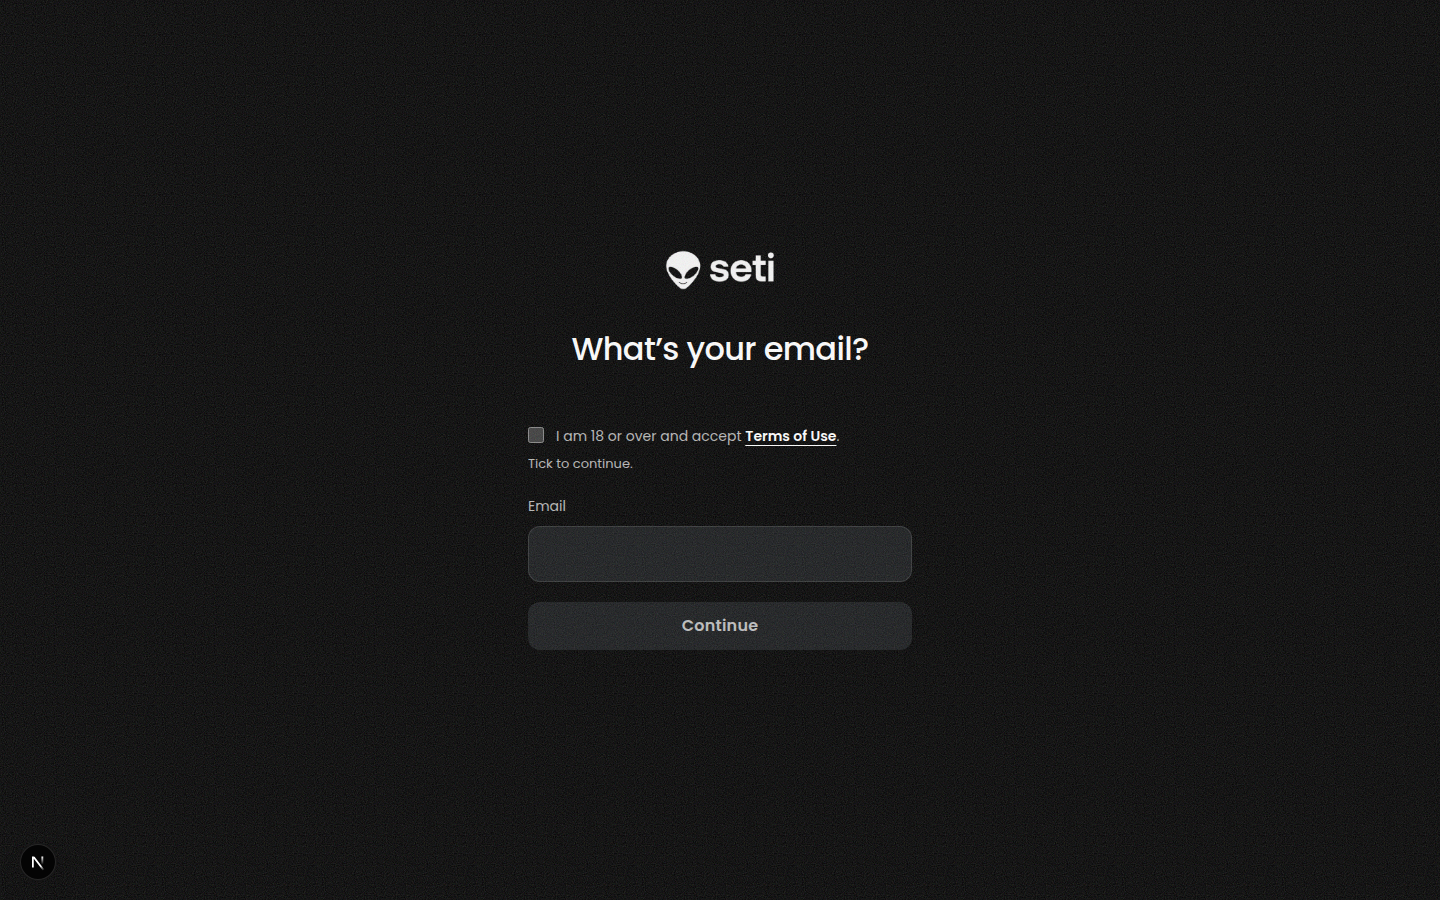
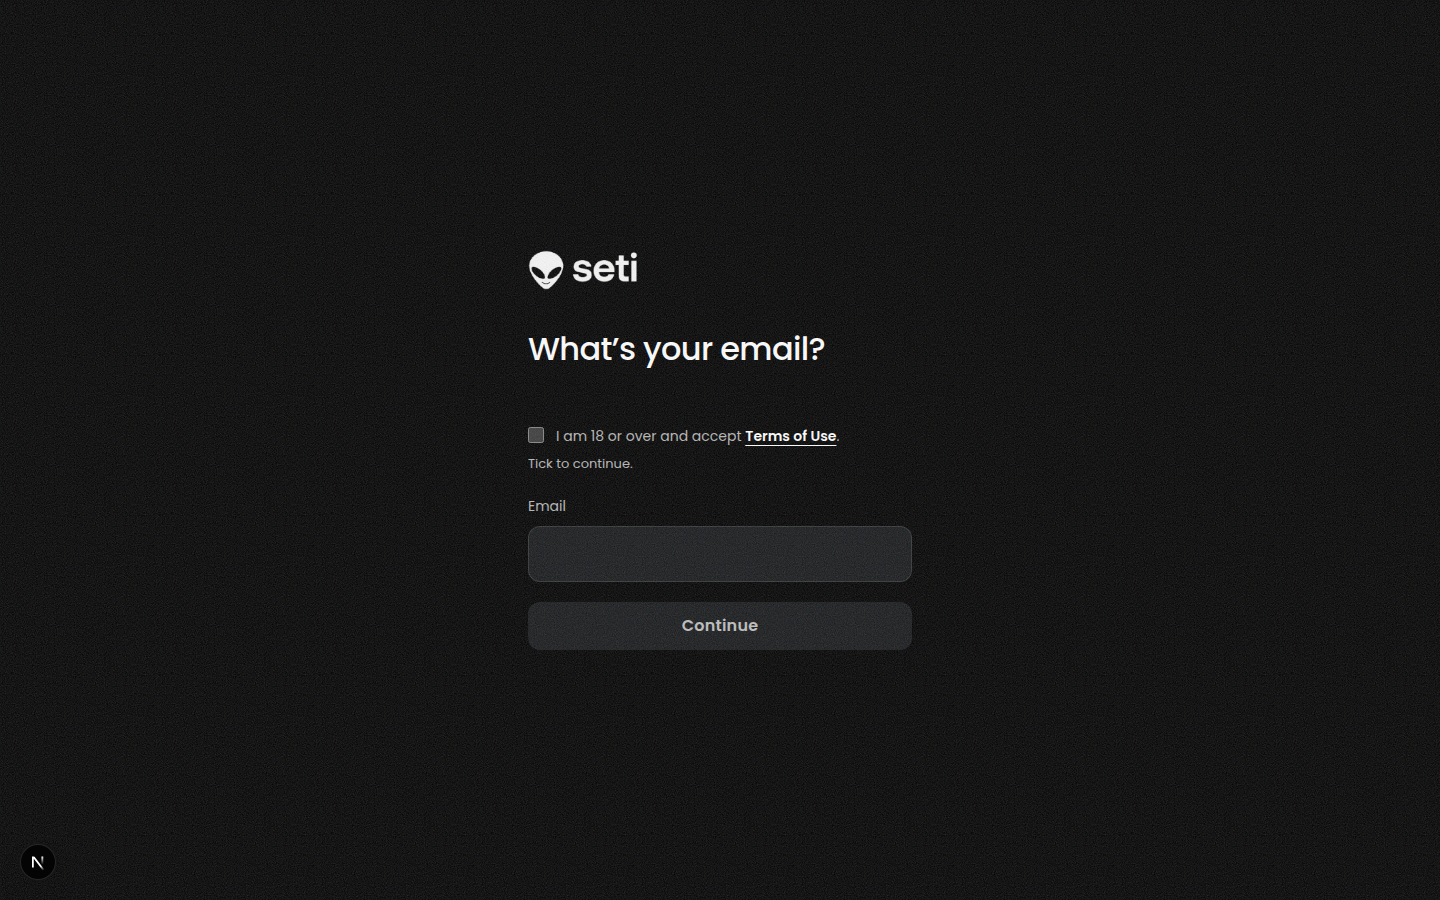
fix(signin): one left edge for the lockup, the title and the controls
Centring the title (6234c84) fixed one axis and broke congruence with the
form: the centred pair then shared no edge with anything below, so the title
floated between the column's left edge and the field's right one. Two
compositions stacked, whichever half you centre (#567).

Everything starts on the column's left edge now. Measured at 390: lockup,
title, checkbox, Email label, field and button all begin at x=24 (528 at
1440), with the consent text indented only by the checkbox it follows. This
is Coinbase's sign-up arrangement: mark top-left, title left, controls left.
Centring the whole stack is the other coherent choice and it is worse — a
centred 'Email' label over a full-width field is a label that belongs to
nothing.

Changed region(s): [[0.3438, 0.3733, 0.625, 0.4044], [0.3438, 0.28, 0.5625, 0.3422]]

diff --git a/web/components/signin/SignInPanel.tsx b/web/components/signin/SignInPanel.tsx
@@ -48,7 +48,7 @@ export function SignInPanel({ children, title, showMark = true }: SignInPanelPro
              an otherwise empty field identifies nothing: it reads as an avatar. `h-10` is 40px
              tall, which is 110px of lockup — the same width as the references — and it is one
              image, so the face and the name cannot drift apart. */
-          <BrandLockup className="entrance mx-auto block h-10 w-auto" preload />
+          <BrandLockup className="entrance block h-10 w-auto" preload />
         ) : null}
 
         {/* The page's ONE heading, and it is visible (#567).
@@ -66,14 +66,15 @@ export function SignInPanel({ children, title, showMark = true }: SignInPanelPro
             what was deleted. The loading stage passes none: it has nothing to announce but the wait.
             `text-balance` keeps a two-line title from ending on one short word. */}
         {title ? (
-          /* CENTRED, like the lockup above it (#567). The heading was flush left under a centred
-             mark, which is two compositions stacked: measured in the render, the lockup's ink sat at
-             the column's exact centre while the title's ink started at its left edge, so nothing
-             shared an axis and the mark read as off-centre even though it was not. A centred title
-             over a centred wordmark is Linear's arrangement; the consent, the field and the button
-             stay left-aligned, because a form whose labels centre is a form you cannot scan. */
+          /* ONE LEFT EDGE, for the lockup, the title and every control under them (#567).
+             Centring the title alone was measured and rejected: the centred pair then shared no edge
+             with the form, so the title floated between the column's left edge and the field's right
+             one and the block read as two compositions. Centring the whole stack is worse — a centred
+             `Email` label over a full-width field is a label that belongs to nothing. Coinbase's
+             sign-up screen is this arrangement: mark top-left, title left, controls left, one axis.
+             `text-balance` keeps a two-line title from ending on one short word. */
           <h1
-            className={`text-balance text-center font-brand text-heading-lg font-medium text-on-dark ${showMark ? 'mt-10' : ''}`}
+            className={`text-balance font-brand text-heading-lg font-medium text-on-dark ${showMark ? 'mt-10' : ''}`}
           >
             {title}
           </h1>
